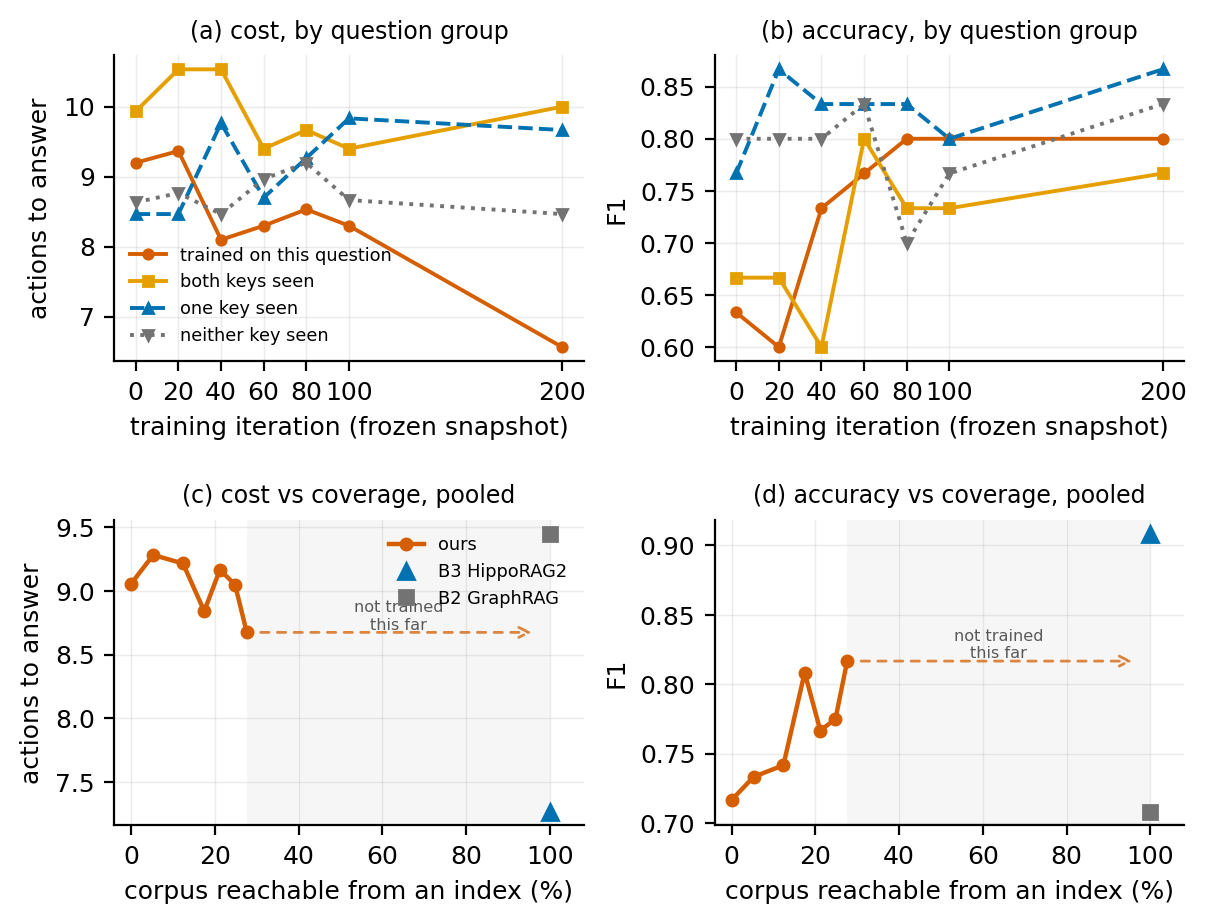
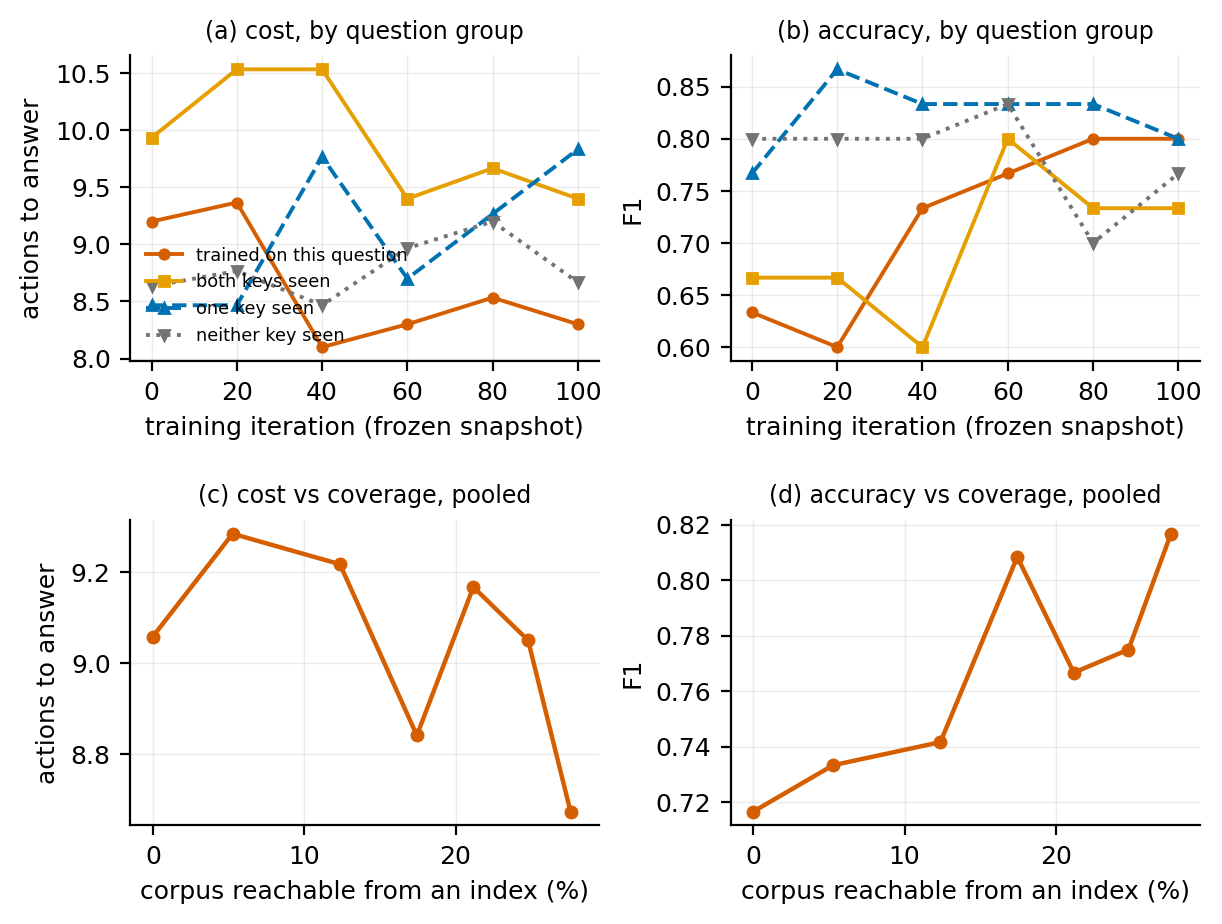
Fig 2: panels a-b to epoch 1 only, panels c-d to our curve only

diff --git a/scripts/make_figures.py b/scripts/make_figures.py
@@ -82,14 +82,6 @@ def gradient_and_coverage():
             fs.append(sum(r["f1"] for r in rows) / len(rows))
         if not xs:
             continue
-        p = "runs/grad_trained/test_log.jsonl"
-        if os.path.exists(p):
-            fin = [json.loads(l) for l in open(p)
-                   if json.loads(l).get("split") == split]
-            if fin:
-                xs.append(200)
-                ys.append(sum(r["steps"] for r in fin) / len(fin))
-                fs.append(sum(r["f1"] for r in fin) / len(fin))
         for ax, vals in ((a_s, ys), (a_f, fs)):
             ax.plot(xs, vals, marker=marker, ls=ls, color=color, lw=1.4,
                     ms=3.4, label=label)
@@ -117,28 +109,17 @@ def gradient_and_coverage():
     final = arm("grad_trained")          # epoch-2 store, 27.6% coverage
     if final:
         xs.append(27.6); ys.append(final[0]); fs.append(final[1])
-    b2, b3 = arm("grad_graphrag"), arm("grad_hipporag")
     for ax, vals, j in ((b_s, ys, 0), (b_f, fs, 1)):
         if xs:
             ax.plot(xs, vals, "o-", color=VERM, lw=1.6, ms=4, label="ours")
             # the curve stops because training stopped, not because data is
             # missing: 100 questions reach 27.6% of the corpus
-            ax.axvspan(xs[-1], 100, color="0.5", alpha=0.07, lw=0)
-            ax.annotate("", xy=(97, vals[-1]), xytext=(xs[-1] + 2, vals[-1]),
-                        arrowprops=dict(arrowstyle="->", color=VERM, lw=1.0,
-                                        ls=(0, (3, 3)), alpha=0.75))
-            ax.text((xs[-1] + 100) / 2, vals[-1],
-                    "not trained\nthis far", ha="center", va="bottom",
-                    fontsize=5.8, color="0.35")
-        if b3:
-            ax.plot([100], [b3[j]], "^", color=BLUE, ms=6, label="B3 HippoRAG2")
-        if b2:
-            ax.plot([100], [b2[j]], "s", color="0.45", ms=5, label="B2 GraphRAG")
-        ax.set_xlim(-4, 108)
+
+        ax.set_xlim(-1.5, 29.5)
 
     for ax in (a_s, a_f):
         ax.set_xlabel("training iteration (frozen snapshot)")
-        ax.set_xticks(ITERS + [200])
+        ax.set_xticks(ITERS)
     for ax in (b_s, b_f):
         ax.set_xlabel("corpus reachable from an index (%)")
     for ax in (a_s, b_s):
@@ -150,7 +131,6 @@ def gradient_and_coverage():
     b_s.set_title("(c) cost vs coverage, pooled", fontsize=8.5)
     b_f.set_title("(d) accuracy vs coverage, pooled", fontsize=8.5)
     a_s.legend(frameon=False, fontsize=6.4, loc="lower left")
-    b_s.legend(frameon=False, fontsize=6.4, loc="upper right")
     fig.subplots_adjust(hspace=0.52, wspace=0.28)
     save(fig, "learning")
 

diff --git a/paper/main.tex b/paper/main.tex
@@ -617,19 +617,16 @@ because it was pre-registered, not because it carries weight.
 \begin{figure*}[!t]
 \centering
 \includegraphics[width=0.88\textwidth]{learning.pdf}
-\caption{Six frozen snapshots of one training run, read two ways. The
-reader, action set, budget and questions are identical at every point, so
-the only thing varying is the store. \emph{(a, b)} Cost and accuracy per
-question group against training iteration: \emph{trained on this question}
-improves steadily, \emph{neither key seen} does not move, and the two
-intermediate groups say how far the effect reaches past the exact key.
-\emph{(c, d)} The same runs pooled, against the share of the corpus the
-store's indexes reach --- the one axis the offline baselines also sit on,
-at $100\%$. Reading left to right is reading the training run forwards. Our curve stops
-at $27.6\%$ because training stopped, not because the trend did: the shaded
-band is corpus the hundred training questions never named. The distance to
-B3 is distance along that axis, not a difference in what a point of coverage
-is worth (Table~\ref{tab:percoverage}).}
+\caption{Six frozen snapshots from epoch~1, read two ways. The reader,
+action set, budget and questions are identical at every point, so the only
+thing varying is the store. \emph{(a, b)} Cost and accuracy per question
+group against training iteration: the trained group improves while the three
+untrained groups do not, and the ordering is already visible within a single
+epoch. \emph{(c, d)} The same runs pooled, against the share of the corpus
+the store's indexes reach --- the quantity training actually buys. Accuracy
+rises steadily with coverage; cost falls more noisily. Coverage reaches
+$24.8\%$ by the end of the epoch, and the second epoch (Sec.~E2) adds the
+remaining cost saving without adding accuracy.}
 \label{fig:learning}
 \end{figure*}
 
